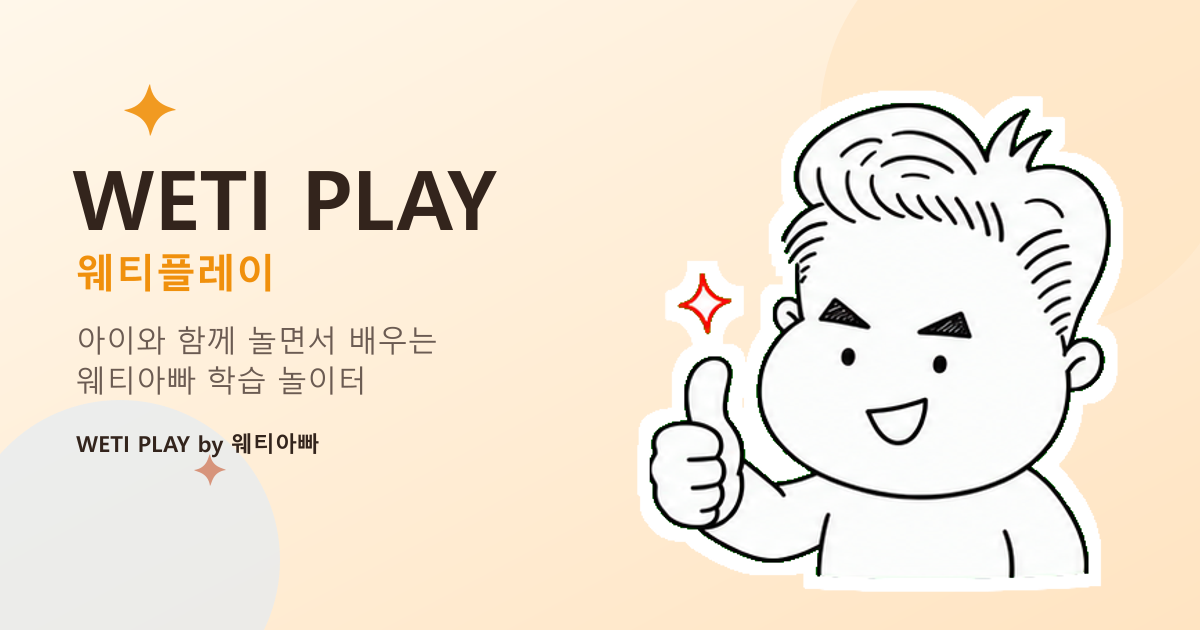
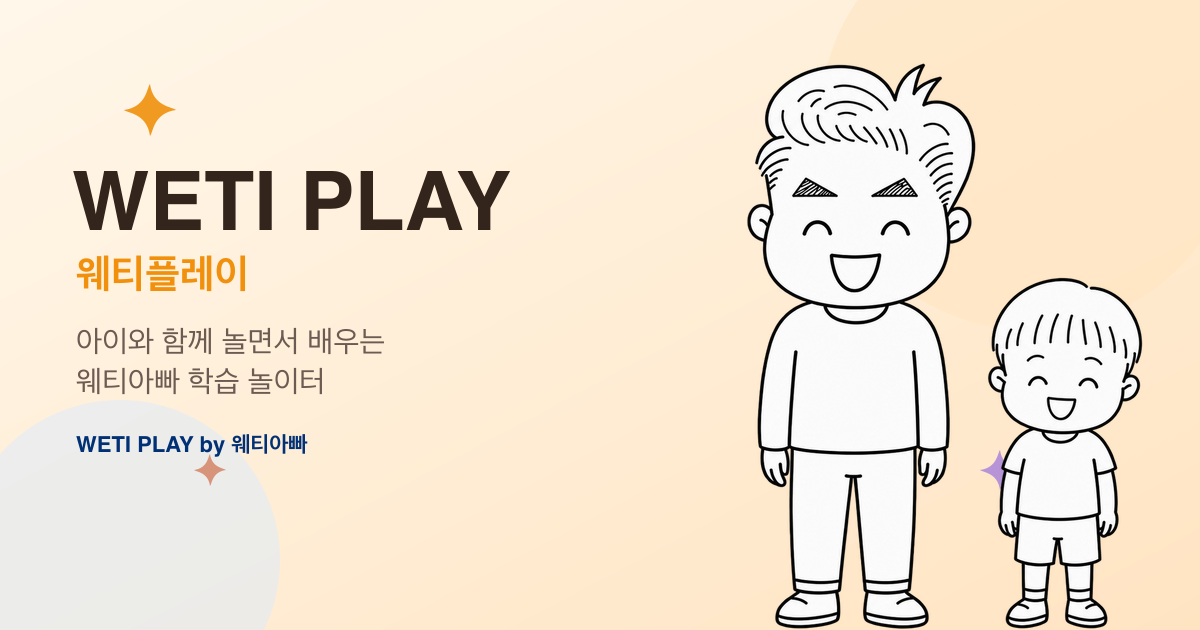
브랜드 공식 접점을 컬러 CI로 교체하고 네이비 도입
상위 문서(brand-assets/BRAND_GUIDE.md)와의 위계를 정리하면서 미뤄져 있던
브랜드 적용을 실행한다.

파비콘·앱 아이콘
- 원본을 OGQ 리액션 스티커(04_approved)에서 공식 컬러 심벌로 교체.
  스티커는 문구가 붙은 콘텐츠형 자산이라 공식 표식 자리에 맞지 않고,
  캡션 밴드를 잘라내면 원본 구도를 훼손하게 된다 (상위 문서 §4.3·§6.1).
- 심벌이 이미 라운드 타일이라 기존 오렌지 프레임은 제거했다.

첫 화면 히어로·OG 이미지
- 아빠+웨티 합본 컷으로 교체. "아빠와 아이가 함께 배운다"가 첫 화면에서
  바로 읽혀야 하는 자리라 단독 캐릭터 대신 합본을 쓴다.
- 전신이라 세로가 길어져(0.70 비율) 첫 화면이 밀리므로 히어로 폭을 줄여 잡았다.

네이비 도입
- 브랜드 주색 1번 #013075가 토큰에 한 자리도 없었다.
- 푸터 배경, 포커스 링, 공식 관계 표기 배지, 헤더 하단 경계에 적용.
- 대비 검증: 푸터 본문 10.69:1, 보조 5.28:1, 오렌지 링크 hover 5.18:1.
- --wp-color-ink는 네이비로 바꾸지 않았다. 크림 배경과 함께 차가워져
  7세 대상의 따뜻한 인상이 깨진다.

원본 관리
- brand/source/에 상위 confirmed/의 사본을 두고 생성 스크립트의 입력으로 삼는다.
  각 저장소는 독립 배포되므로 brand-assets를 코드에서 직접 참조할 수 없다.

diff --git a/brand/tokens.css b/brand/tokens.css
@@ -27,6 +27,17 @@
   --wp-color-primary-tint: #ffe4c2; /* 배지·연한 배경 */
   --wp-color-primary-ink: #33241c; /* primary-tint 위에 쓰는 글자색 */
 
+  /* ── 브랜드 네이비 (아이덴티티 주색) ────────────────────────── */
+  /* brand-assets/BRAND_GUIDE.md §5.2. 컬러 CI의 배경색이자 브랜드 주색 1번.
+     화면에서 대비가 가장 안전한 색이다 (흰 12.49:1 / 크림 11.75:1).
+     공식·신뢰의 자리에 쓴다: 푸터, 포커스 링, 공식 관계 표기.
+     본문 잉크(--wp-color-ink)를 네이비로 바꾸지 않는다 — 크림 배경과 함께
+     차가워져 7세 대상의 따뜻한 인상이 깨진다. */
+  --wp-color-navy: #013075; /* 공식 표기·푸터 배경·포커스 링 */
+  --wp-color-navy-bright: #1c4c9c; /* 네이비 위 보조 강조 (흰 배경 8.19:1) */
+  --wp-color-navy-tint: #dde6f5; /* 연한 네이비 배경 (배지 등) */
+  --wp-color-navy-ink: #012354; /* navy-tint 위에 쓰는 글자색 (12.20:1) */
+
   /* ── 서비스별 확장 컬러 ────────────────────────────────────── */
   /* 웨티 보카 – 차분하고 신뢰감 있는 하늘빛 블루 */
   --wp-color-voca: #2670c4;
@@ -71,8 +82,9 @@
   --wp-shadow-card-hover: 0 16px 34px rgba(51, 36, 28, 0.16);
   --wp-shadow-pop: 0 6px 14px rgba(51, 36, 28, 0.14);
 
-  /* 접근성 포커스 링: 어떤 배경 색 위에서도 보이도록 흰 후광 + 진한 외곽선 */
-  --wp-focus-ring: 0 0 0 3px var(--wp-color-surface), 0 0 0 6px var(--wp-color-ink);
+  /* 접근성 포커스 링: 어떤 배경 색 위에서도 보이도록 흰 후광 + 진한 외곽선.
+     외곽선은 브랜드 네이비를 쓴다 (크림 배경 11.75:1). */
+  --wp-focus-ring: 0 0 0 3px var(--wp-color-surface), 0 0 0 6px var(--wp-color-navy);
 
   --wp-space-xs: 0.5rem;
   --wp-space-sm: 0.875rem;

diff --git a/components/BrandIntro.tsx b/components/BrandIntro.tsx
@@ -5,8 +5,10 @@ import styles from "./BrandIntro.module.css";
 
 /**
  * 첫 화면 상단 브랜드 소개 영역.
- * 웨티아빠 원본 마스코트 이미지를 이 페이지에서 유일하게, 가장 크고
+ * 웨티아빠와 웨티가 함께 있는 확정 컷을 이 페이지에서 유일하게, 가장 크고
  * 의미 있게 사용하는 자리다 (장식으로 반복 사용하지 않는다).
+ * "아빠와 아이가 함께 배운다"가 첫 화면에서 바로 읽혀야 하는 자리라 단독
+ * 캐릭터가 아니라 합본 컷을 쓴다.
  */
 export default function BrandIntro() {
   return (
@@ -28,10 +30,10 @@ export default function BrandIntro() {
         <div className={styles.mascotWrap}>
           <Image
             src={mascotHero}
-            alt="엄지를 척 들며 반갑게 인사하는 웨티아빠 캐릭터"
+            alt="나란히 서서 웃고 있는 웨티아빠와 아들 웨티 캐릭터"
             priority
             className={styles.mascotImg}
-            sizes="(max-width: 640px) 60vw, 320px"
+            sizes="(max-width: 640px) 128px, 176px"
           />
         </div>
       </div>

diff --git a/components/BrandIntro.module.css b/components/BrandIntro.module.css
@@ -25,8 +25,9 @@
   margin: 0 0 0.85rem;
   padding: 0.3rem 0.85rem;
   border-radius: var(--wp-radius-pill);
-  background: var(--wp-color-primary-tint);
-  color: var(--wp-color-primary);
+  /* 'WETI PLAY by 웨티아빠'는 공식 관계 표기다. 브랜드 네이비를 쓴다 (9.94:1). */
+  background: var(--wp-color-navy-tint);
+  color: var(--wp-color-navy);
   font-family: var(--wp-font-body);
   font-weight: 700;
   font-size: var(--wp-text-small);
@@ -59,9 +60,12 @@
   line-height: 1.6;
 }
 
+/* 합본 컷은 전신이라 세로가 길다(796x1134, 가로:세로 = 0.70).
+   가로 기준으로 크기를 주면 첫 화면이 세로로 길어져 서비스 카드가 접힘선 아래로
+   밀린다. 이전 마스코트(거의 정사각)와 비슷한 높이가 되도록 가로 폭을 줄여 잡는다. */
 .mascotWrap {
   flex-shrink: 0;
-  width: clamp(9.5rem, 24vw, 15rem);
+  width: clamp(7rem, 17vw, 11rem);
   filter: drop-shadow(0 14px 20px rgba(51, 36, 28, 0.16));
 }
 

diff --git a/components/Footer.module.css b/components/Footer.module.css
@@ -1,5 +1,7 @@
+/* 배경은 브랜드 네이비. 컬러 CI의 배경색과 같은 색이라 푸터가 공식 표식 자리로 읽힌다.
+   본문 글자 #f4ece4 대비 10.69:1, 보조 글자 5.28:1, 오렌지 링크 hover 5.18:1 (모두 AA). */
 .footer {
-  background: var(--wp-color-ink);
+  background: var(--wp-color-navy);
   color: #f4ece4;
   padding: clamp(2rem, 5vw, 2.75rem) 0 1.5rem;
 }

diff --git a/components/Header.module.css b/components/Header.module.css
@@ -4,7 +4,7 @@
   z-index: 40;
   background: color-mix(in srgb, var(--wp-color-bg) 88%, transparent);
   backdrop-filter: blur(6px);
-  border-bottom: 1px solid var(--wp-color-border);
+  border-bottom: 1px solid color-mix(in srgb, var(--wp-color-navy) 18%, var(--wp-color-border));
 }
 
 .inner {
